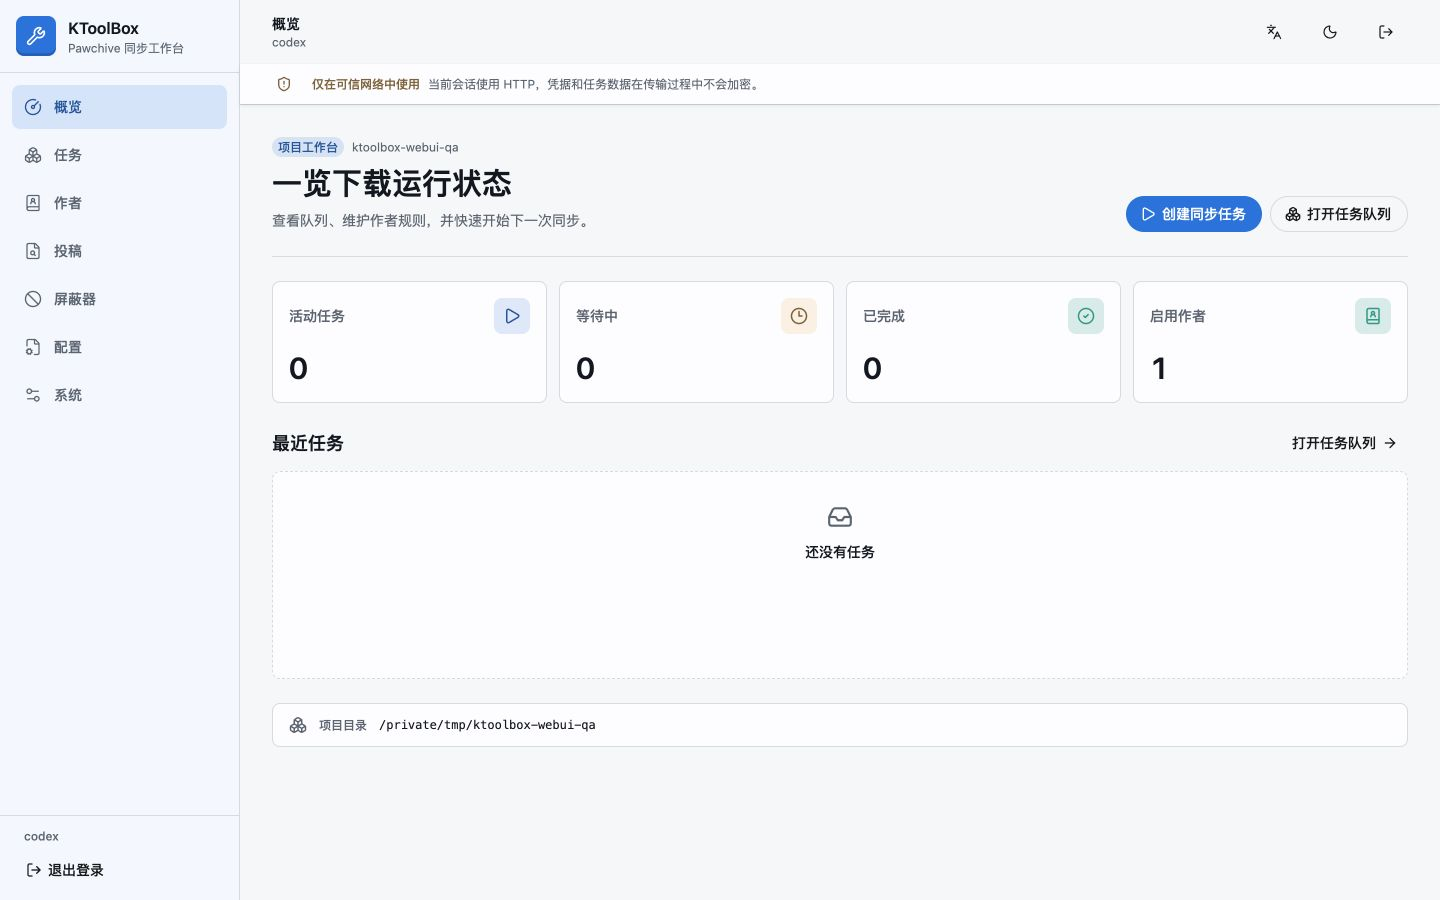
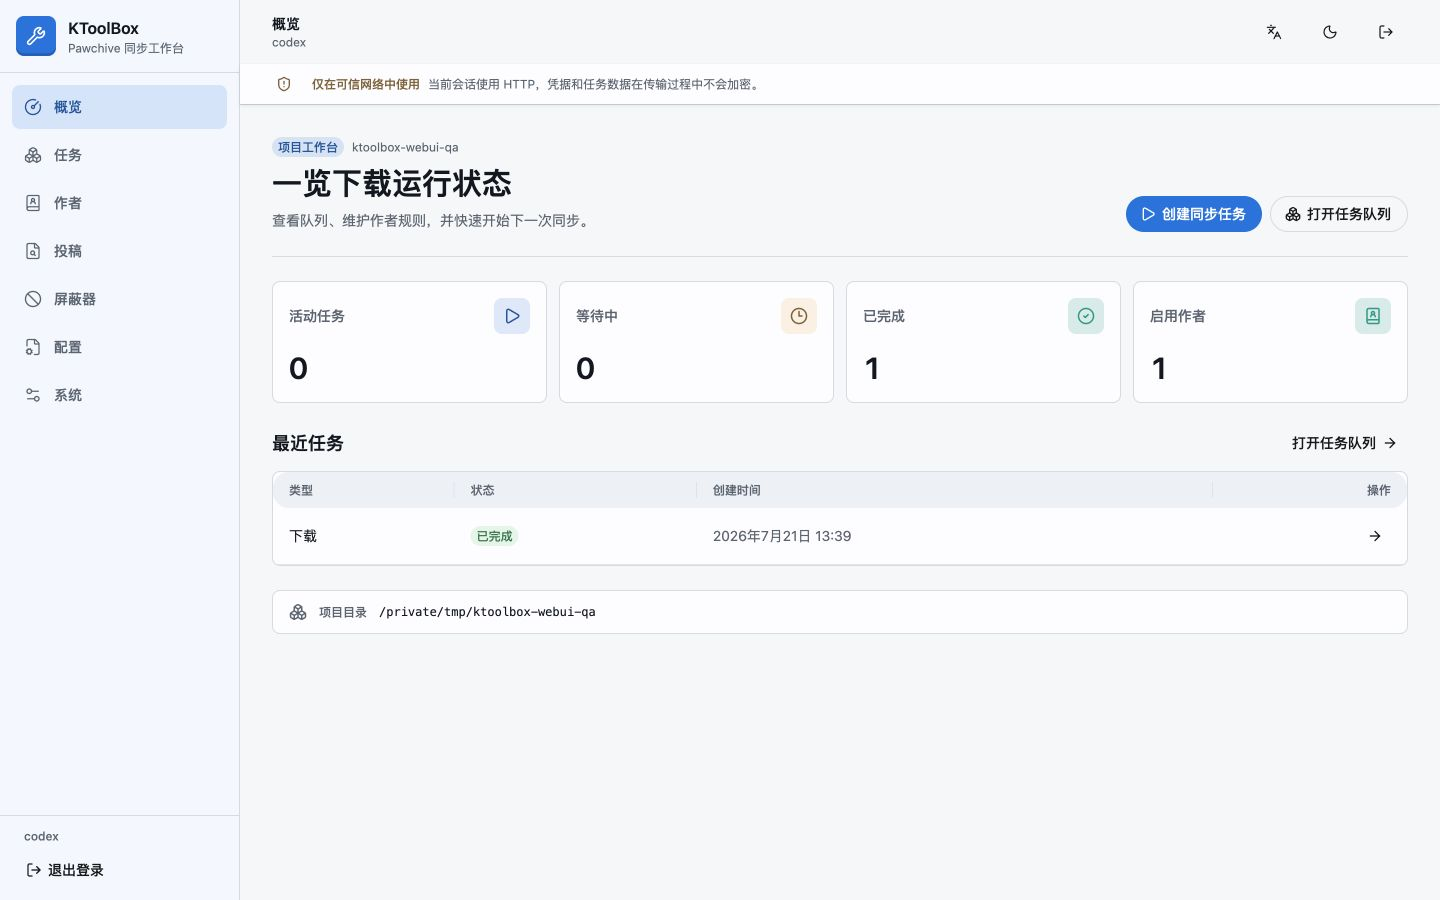
docs(webui): refresh verified interface screenshots

diff --git a/docs/en/webui.md b/docs/en/webui.md
@@ -50,6 +50,8 @@ The interface follows the browser language on first use and supports persistent 
 
 ![Light configuration editor](../assets/webui/09-configuration-light.png)
 
+Editable areas use a muted secondary surface with distinct field backgrounds. Field icons aid scanning, while switches and checkboxes remain left-aligned with their labels instead of resembling centered action buttons.
+
 The main areas are:
 
 - **Overview:** project path, queue health, active transfer totals, and recent tasks.
@@ -59,6 +61,8 @@ The main areas are:
 - **Blockers:** order and scope `field-match` blockers and compose nested `any`/`all`, contains, equals, regular expression, and existence conditions.
 - **Configuration:** edit `.env`, `prod.env`, and `ktoolbox.toml` through typed forms or advanced text views.
 - **System:** inspect the project and application versions and download an example environment file.
+
+![Task editor on a narrow screen](../assets/webui/19-task-form-mobile-light-zh.png)
 
 ![Creator roster on a narrow screen](../assets/webui/12-creators-mobile-light-zh.png)
 
@@ -70,11 +74,15 @@ The `.env` and `prod.env` tabs show each final effective value and a source Chip
 
 Before a save, the server parses and validates the proposed file and returns a semantic diff. Saving uses an ETag to reject stale edits and atomically replaces the file. The TOML editor uses the existing TomlKit/Pydantic store so comments survive structured roster and blocker changes.
 
-![Scoped blocker editor](../assets/webui/13-blockers-1024-dark-zh.png)
+![Dark configuration editor](../assets/webui/20-configuration-1024-dark-zh.png)
+
+![Scoped blocker editor](../assets/webui/17-blocker-form-1024-light-zh.png)
 
 ## Task lifecycle
 
 `sync` and `download` tasks preserve the complete corresponding CLI inputs. A targetless synchronization resolves the currently enabled roster when the task is created. Each attempt then receives an immutable, redacted configuration snapshot; later configuration edits affect only future attempts.
+
+![Dark task editor](../assets/webui/18-task-form-1024-dark-zh.png)
 
 The top-level queue runs two tasks by default (`KTOOLBOX_WEBUI__MAX_ACTIVE_TASKS`) while each task retains its configured creator and file concurrency. Identical active tasks resolve to the existing task. Tasks with overlapping normalized outputs, creators, or posts wait in `blocked` until the resource lock is released.
 

diff --git a/docs/zh/webui.md b/docs/zh/webui.md
@@ -50,6 +50,8 @@ KToolBox 只提供一个本地 WebUI 账户，且没有默认凭据。`KTOOLBOX_
 
 ![浅色配置编辑器](../assets/webui/09-configuration-light.png)
 
+可编辑区域使用柔和的次级表面，输入控件具有独立的字段背景；字段图标便于快速扫描，开关与复选框则和标签一起靠左排列，不会表现成居中的操作按钮。
+
 主要页面包括：
 
 - **概览：** 项目路径、队列状态、活动传输统计和近期任务。
@@ -59,6 +61,8 @@ KToolBox 只提供一个本地 WebUI 账户，且没有默认凭据。`KTOOLBOX_
 - **屏蔽器：** 排序、设置作用域，并组合嵌套 `any`/`all`、包含、等于、正则和存在条件。
 - **配置：** 使用类型化表单或高级原文视图编辑 `.env`、`prod.env` 与 `ktoolbox.toml`。
 - **系统：** 查看项目与应用版本，并下载环境配置示例。
+
+![窄屏任务编辑器](../assets/webui/19-task-form-mobile-light-zh.png)
 
 ![窄屏作者清单](../assets/webui/12-creators-mobile-light-zh.png)
 
@@ -70,11 +74,15 @@ KToolBox 只提供一个本地 WebUI 账户，且没有默认凭据。`KTOOLBOX_
 
 保存前，服务端会解析、校验候选文件并返回语义差异。保存使用 ETag 拒绝过期编辑，并以原子替换落盘。TOML 编辑沿用现有 TomlKit/Pydantic 存储，因此结构化修改作者与屏蔽器时会保留注释。
 
-![作者作用域屏蔽器](../assets/webui/13-blockers-1024-dark-zh.png)
+![深色配置编辑器](../assets/webui/20-configuration-1024-dark-zh.png)
+
+![作者作用域屏蔽器](../assets/webui/17-blocker-form-1024-light-zh.png)
 
 ## 任务生命周期
 
 `sync` 与 `download` 任务覆盖对应 CLI 的完整输入。创建无目标同步时，会立即解析并保存当前已启用作者。每次尝试都会取得不可变且脱敏的配置快照，之后的配置修改只影响未来尝试。
+
+![深色任务编辑器](../assets/webui/18-task-form-1024-dark-zh.png)
 
 顶层队列默认同时运行两个任务（`KTOOLBOX_WEBUI__MAX_ACTIVE_TASKS`），每个任务内部仍保留作者和文件并发配置。完全相同的活动任务会返回现有任务；规范化输出、作者或投稿资源发生重叠时，新任务进入 `blocked`，等待资源锁释放。
 